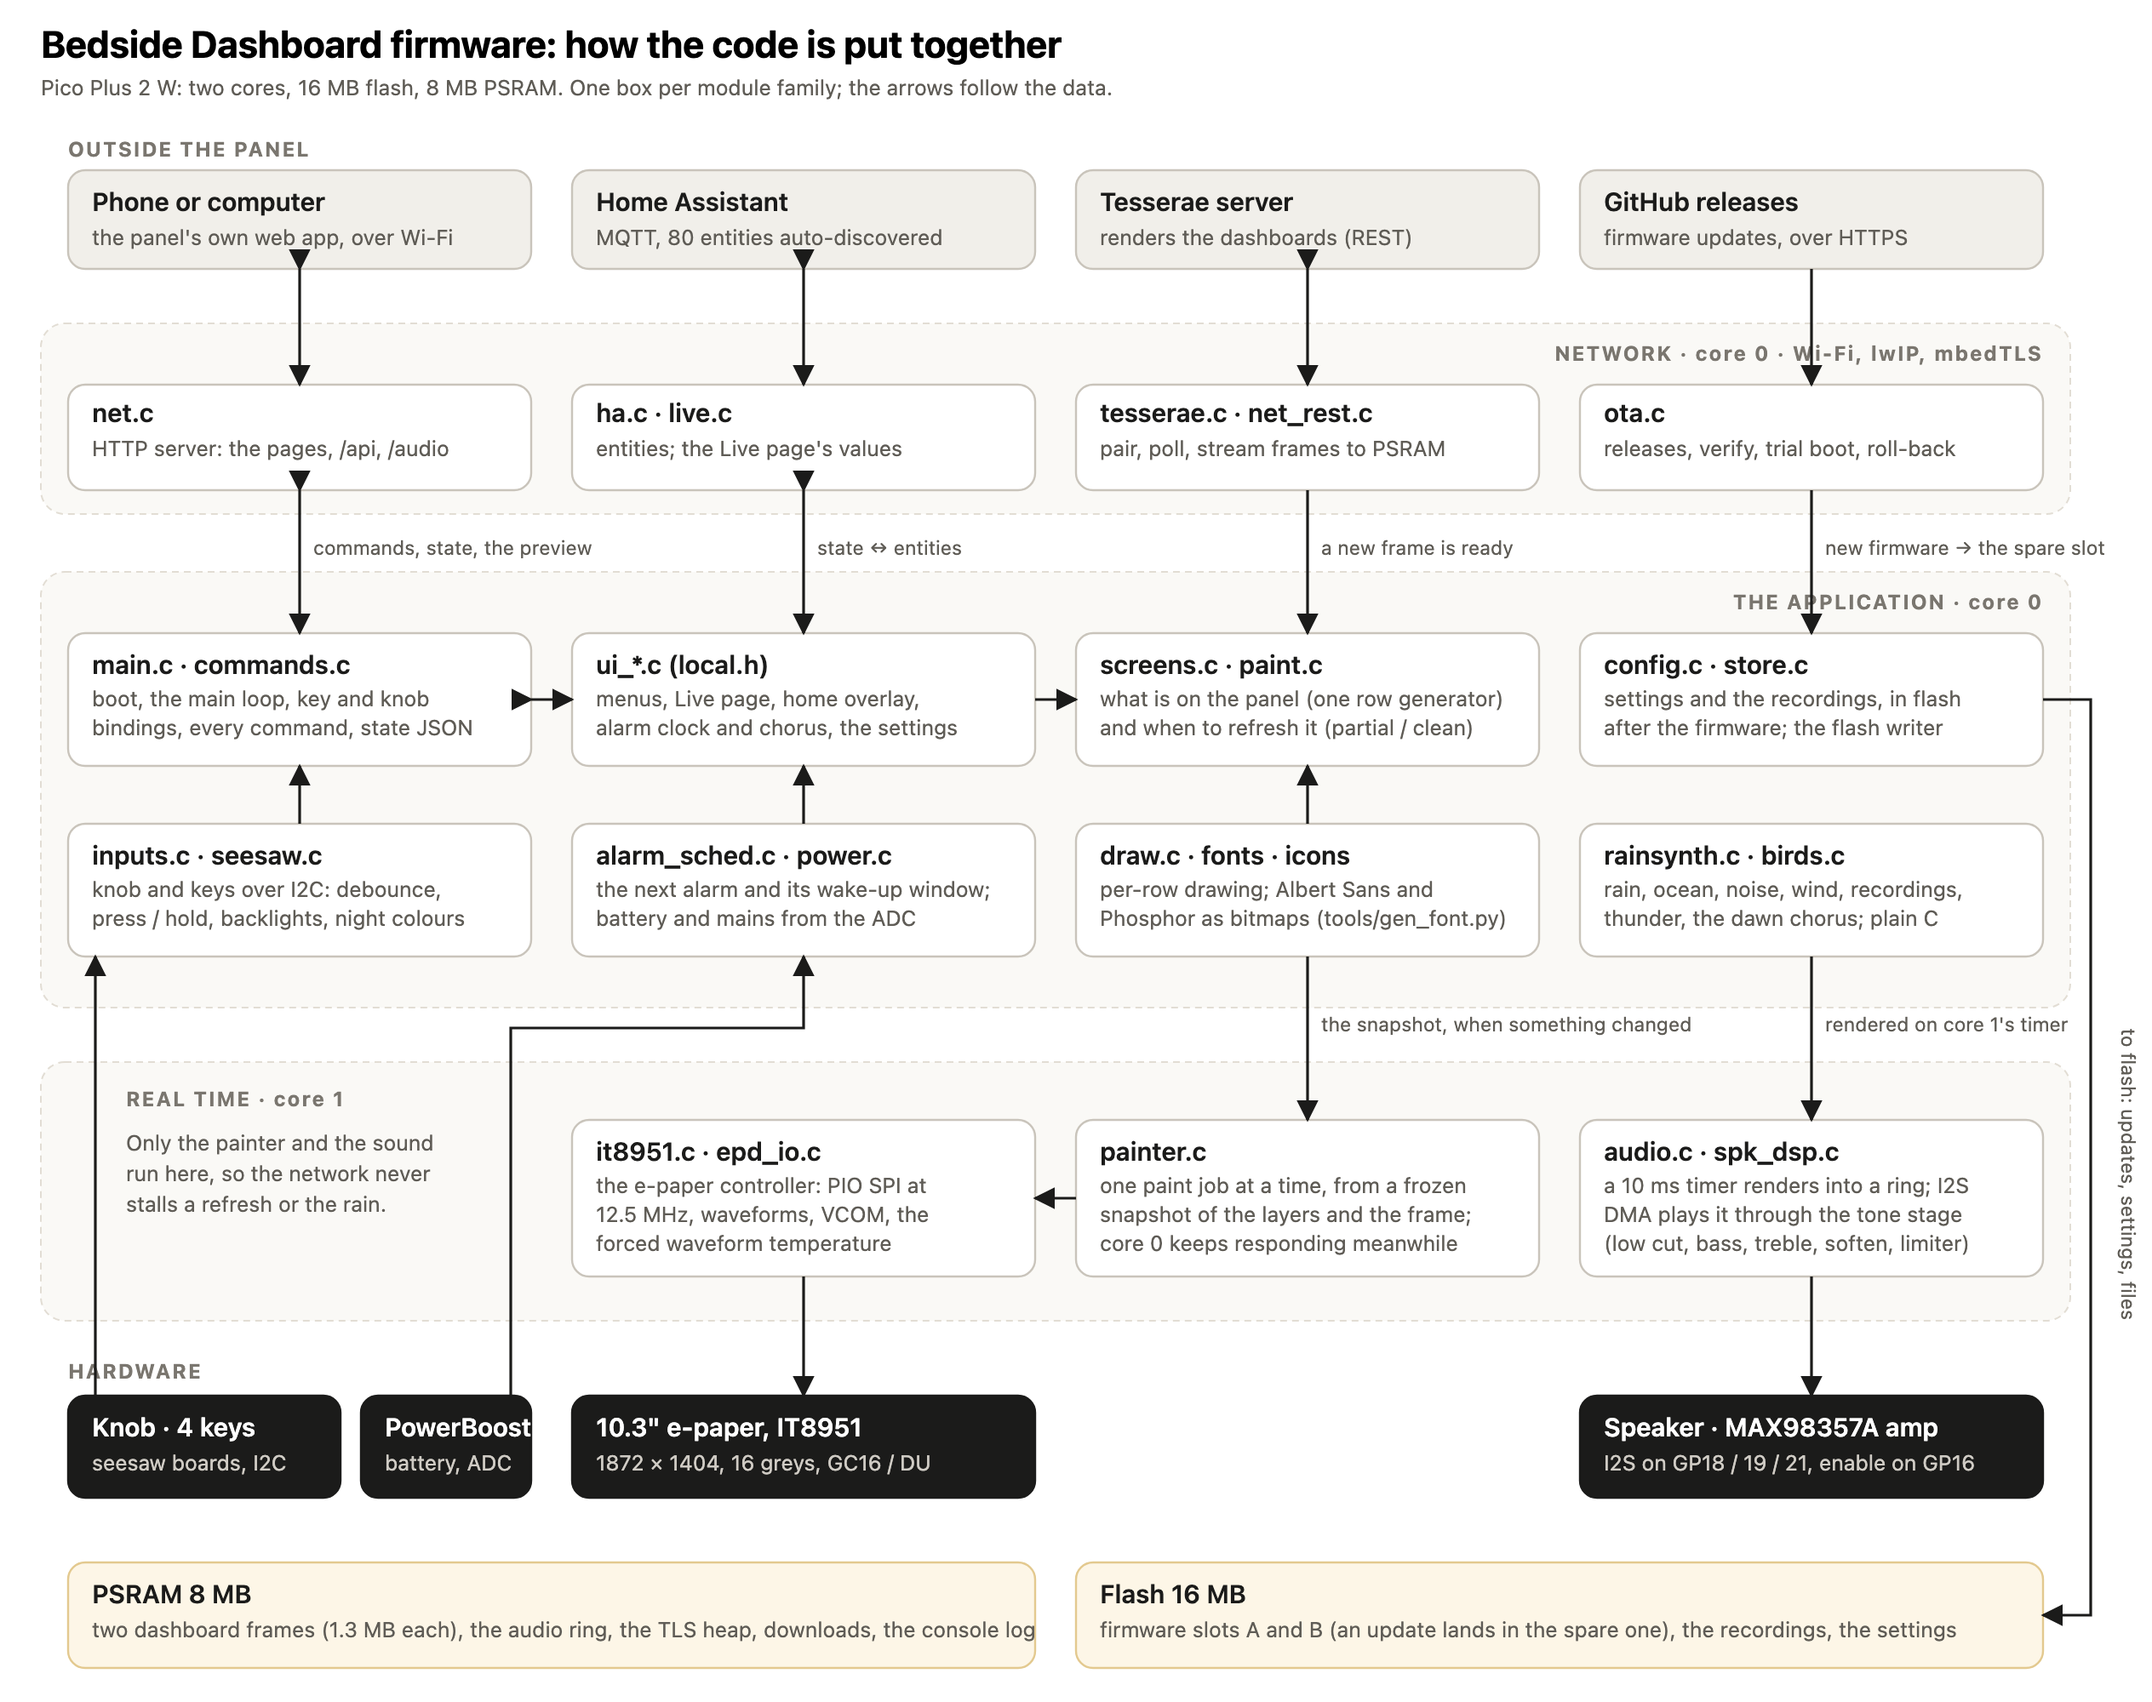
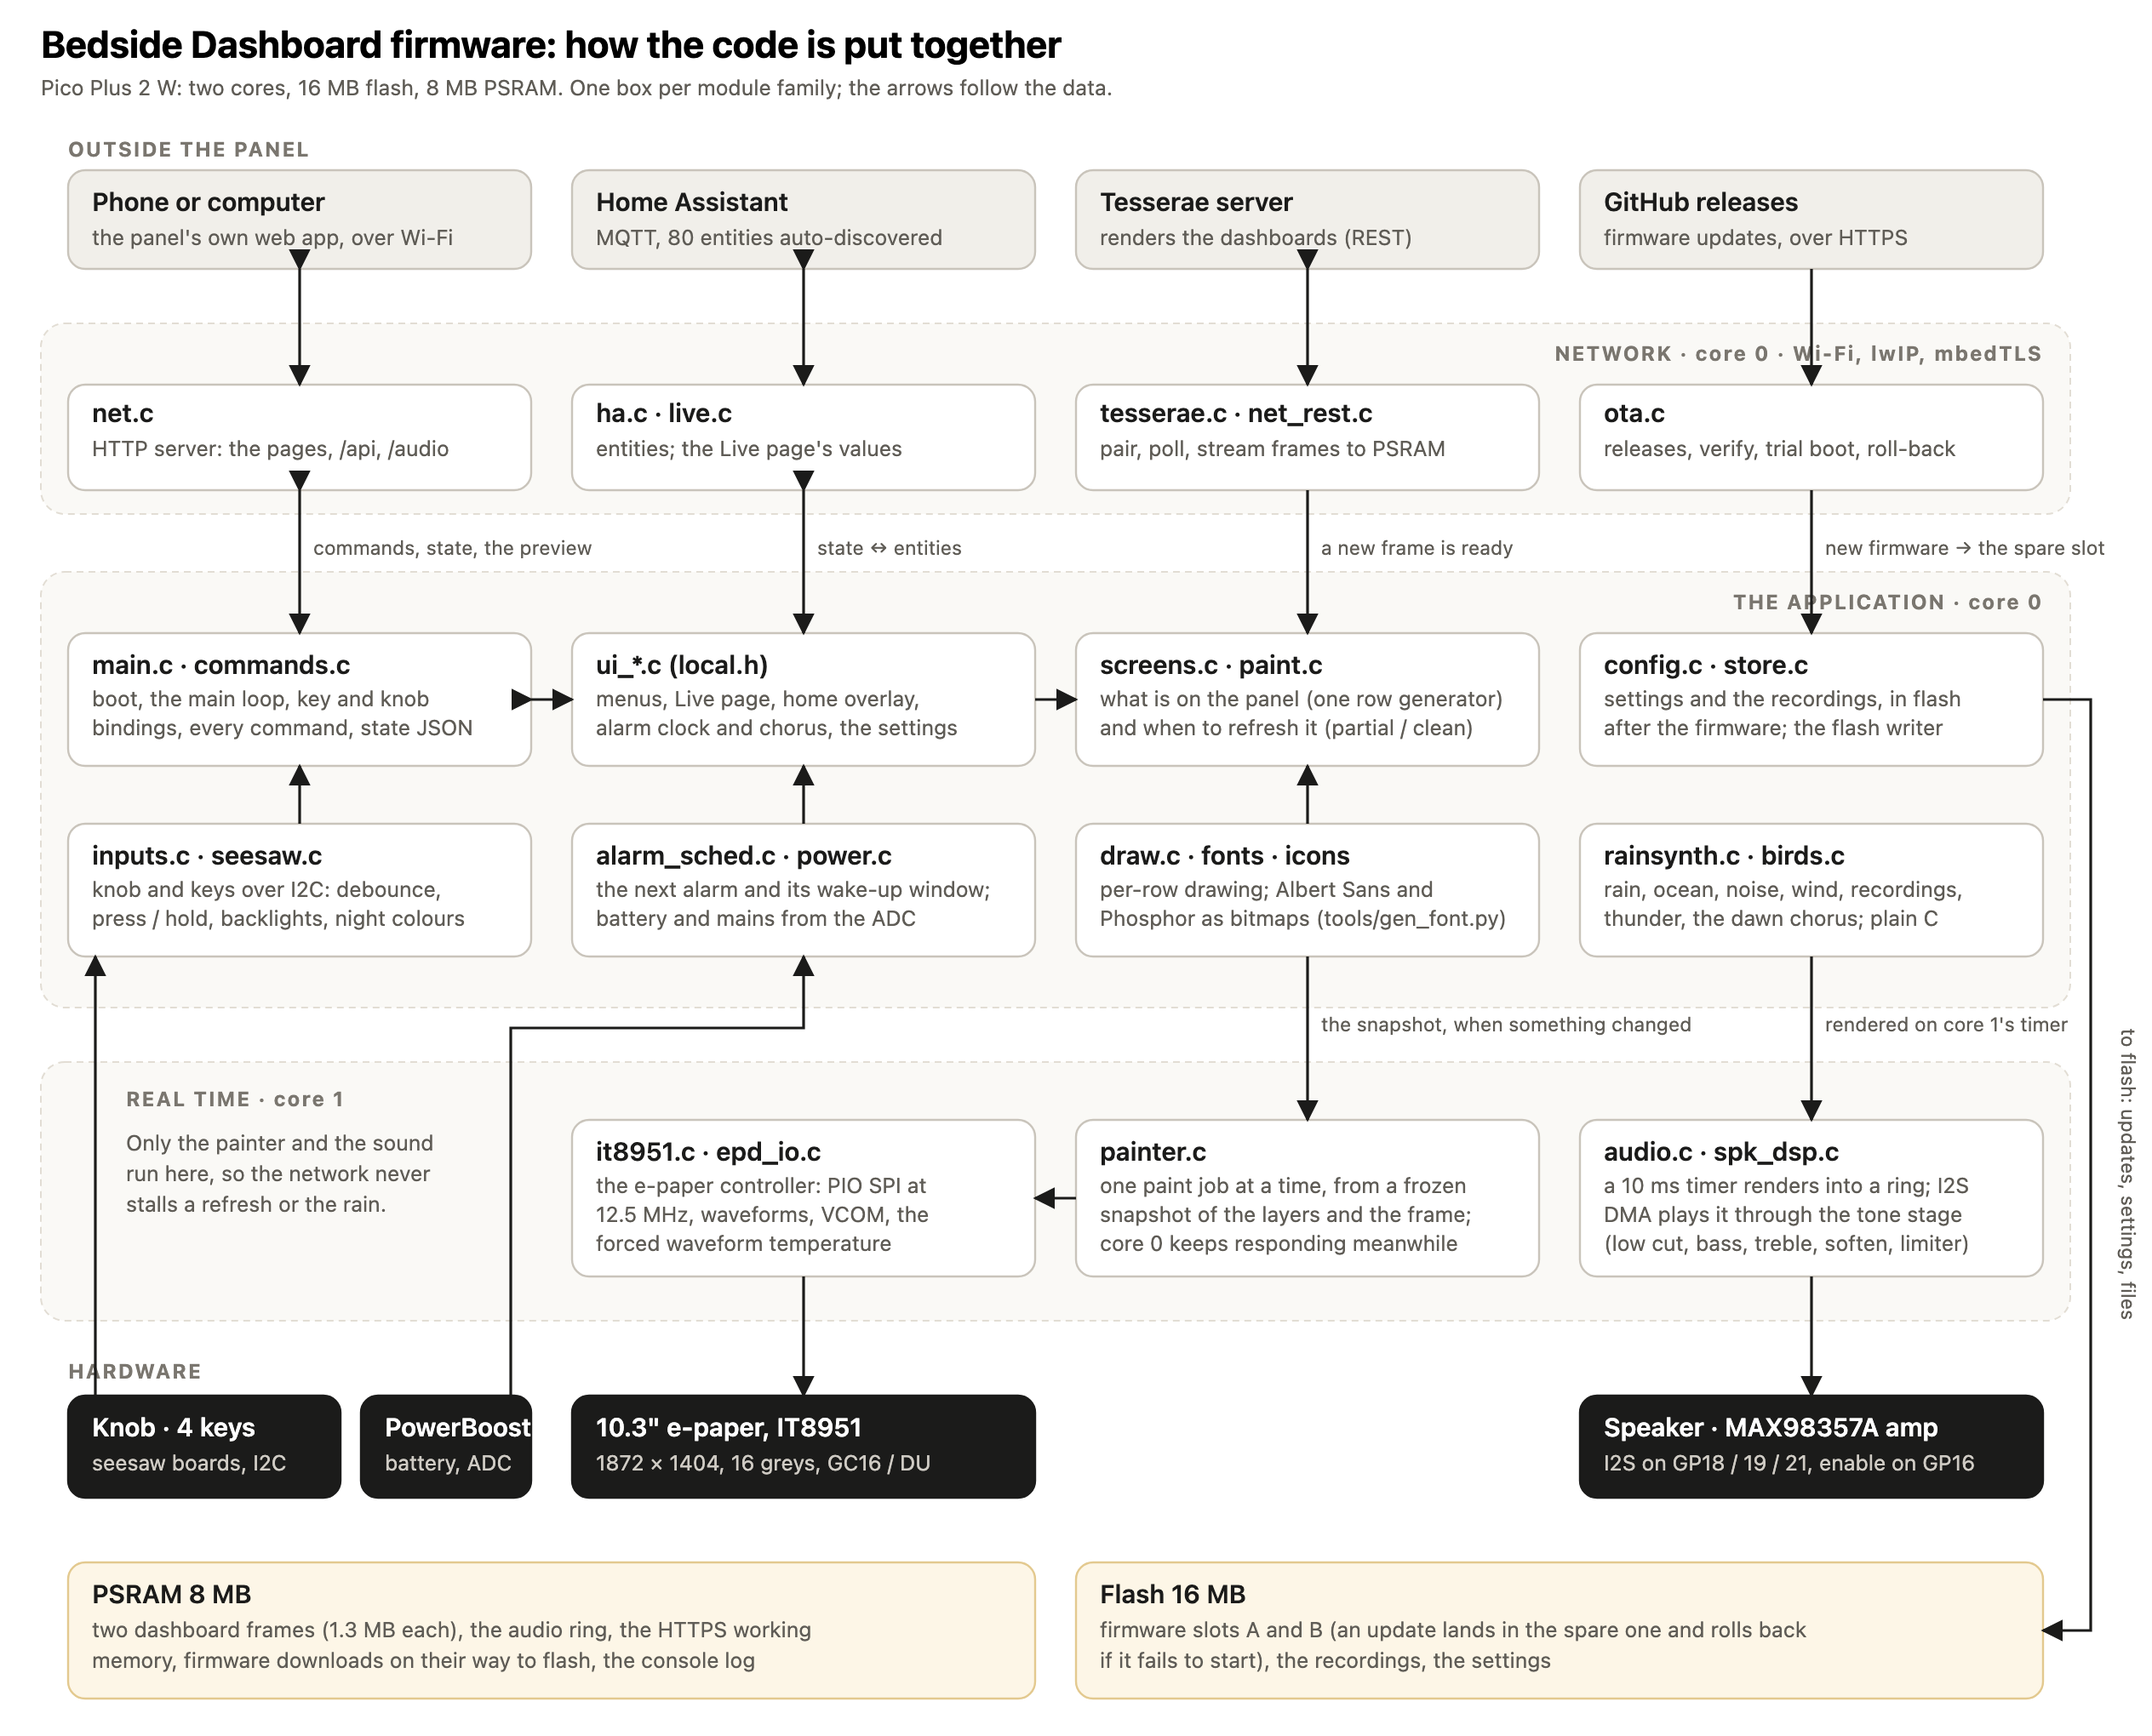
Block diagram: memory boxes on two lines, nothing cut off

diff --git a/docs/architecture.html b/docs/architecture.html
@@ -21,7 +21,7 @@
   .note{font-size:12.5px;fill:#5f5c56}
 </style></head>
 <body>
-<svg width="1264" height="1000" viewBox="0 0 1264 1000" xmlns="http://www.w3.org/2000/svg">
+<svg width="1264" height="1020" viewBox="0 0 1264 1020" xmlns="http://www.w3.org/2000/svg">
 <defs>
   <marker id="a" viewBox="0 0 10 10" refX="9" refY="5" markerWidth="8" markerHeight="8" orient="auto-start-reverse"><path d="M0,0 L10,5 L0,10 z" fill="#1b1b1a"/></marker>
   <marker id="b" viewBox="0 0 10 10" refX="1" refY="5" markerWidth="8" markerHeight="8" orient="auto-start-reverse"><path d="M10,0 L0,5 L10,10 z" fill="#1b1b1a"/></marker>
@@ -147,13 +147,13 @@
 <path d="M1064,750 V820" class="arr"/>
 
 <!-- ===== memory ===== -->
-<rect x="40" y="918" width="568" height="62" rx="10" class="box mem"/>
-<text x="54" y="942" class="t">PSRAM 8 MB</text><text x="54" y="962" class="s">two dashboard frames (1.3 MB each), the audio ring, the TLS heap, downloads, the console log</text>
-<rect x="632" y="918" width="568" height="62" rx="10" class="box mem"/>
-<text x="646" y="942" class="t">Flash 16 MB</text><text x="646" y="962" class="s">firmware slots A and B (an update lands in the spare one), the recordings, the settings</text>
+<rect x="40" y="918" width="568" height="80" rx="10" class="box mem"/>
+<text x="54" y="942" class="t">PSRAM 8 MB</text><text x="54" y="962" class="s">two dashboard frames (1.3 MB each), the audio ring, the HTTPS working</text><text x="54" y="980" class="s">memory, firmware downloads on their way to flash, the console log</text>
+<rect x="632" y="918" width="568" height="80" rx="10" class="box mem"/>
+<text x="646" y="942" class="t">Flash 16 MB</text><text x="646" y="962" class="s">firmware slots A and B (an update lands in the spare one and rolls back</text><text x="646" y="980" class="s">if it fails to start), the recordings, the settings</text>
 
 <!-- the flash writer: ota and config land in flash, down the right margin -->
-<path d="M1200,411 H1228 V949 H1200" class="arr"/>
+<path d="M1200,411 H1228 V958 H1200" class="arr"/>
 <text x="1246" y="690" class="lab" transform="rotate(90 1246 690)" text-anchor="middle">to flash: updates, settings, files</text>
 </svg>
 </body></html>
